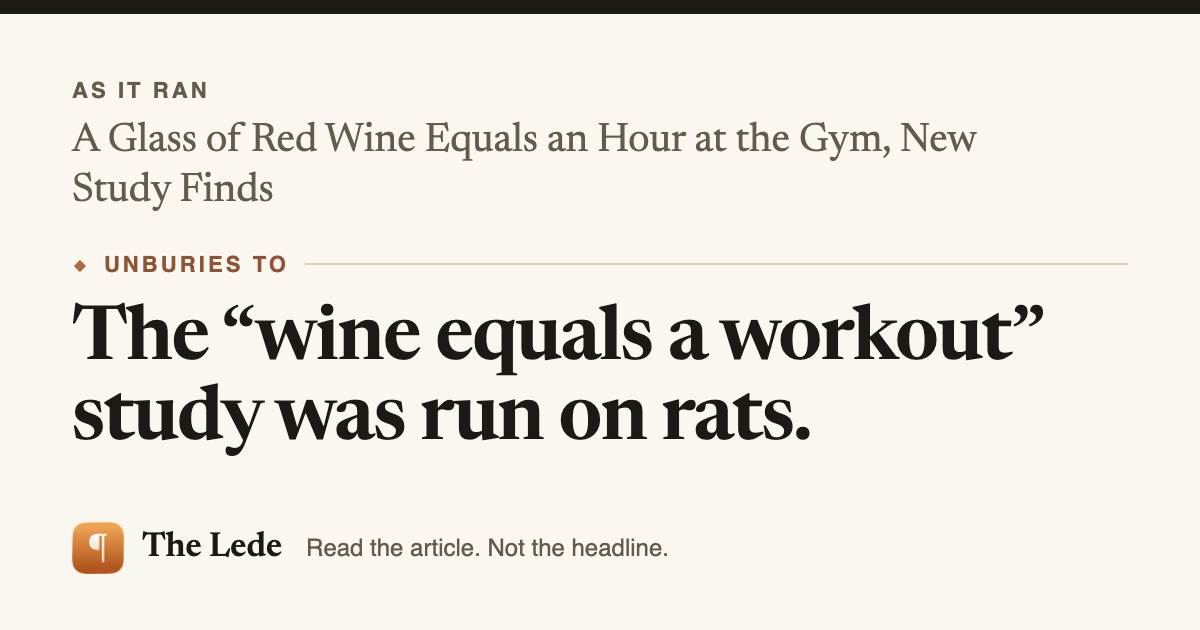
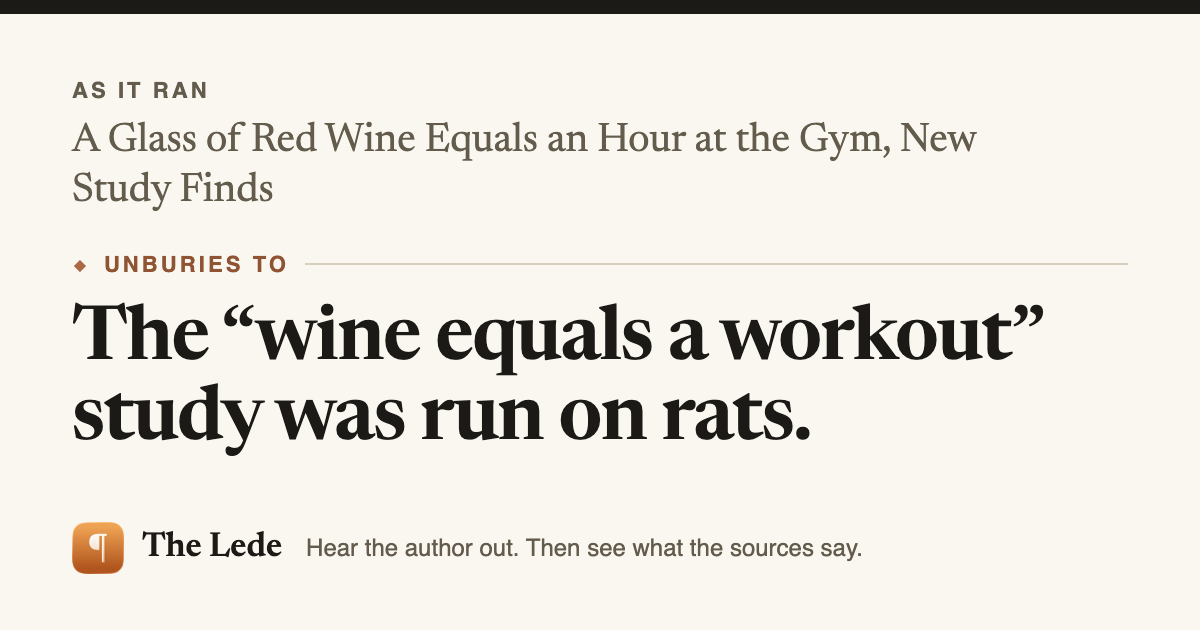
Dig Deeper leads the site; privacy page ready for Australia and Singapore (#23)
Homepage, title, meta and link-preview card now say "Hear the author out.
Then see what the sources say." The Dig Deeper section carries the wine
sample in place of the Iceland blurb. Press page "What The Lede is" and
"The receipt", the support answers for Dig Deeper and plans, and llms.txt
follow. A new support entry explains the false "couldn't reach the desk"
message on 1.0.4. Annual-plan savings claims removed from the structured
data, the FAQ and llms.txt. The "each claim is checked" sentence is left
off the site on purpose (Charles, 2026-10-23), pending a media lawyer.

Privacy page: where data is handled (United States), Australian access,
correction and complaint rights, Singapore's legitimate-interests basis
and Data Protection Officer, and how to report a mistake in a brief or
Dig Deeper. New Zealand waits on a company address.

Claude-Session: https://claude.ai/code/session_01EizGt9HTzCxtqCzPWHBHCM

Changed region(s): [[0.2467, 0.8444, 0.7092, 0.9048]]

diff --git a/support.html b/support.html
@@ -116,7 +116,7 @@
       "name": "What's Dig Deeper?",
       "acceptedAnswer": {
         "@type": "Answer",
-        "text": "A deeper pass you can ask for on anything you save. The desk goes out and researches it, pulls in additional reporting and other angles, and writes a richer read: what others found, a few different takes, and an honest bottom line. It works in the background and lets you know when it's ready. Dig Deeper comes with Membership, and two a month are free so you can see what it does."
+        "text": "Ask for one on anything you save, and the desk goes back out. It reads the reporting and research around the piece, sets out what others found and where it lands, and lists every source it wrote from, each a link to the original. Under the sources it says plainly that it can get one wrong and asks you to check the ones that matter to you. There's a row to report a problem. It works in the background and lets you know when it's ready. Dig Deeper comes with Membership, and 2 a month are free so you can see what it does."
       },
       "url": "https://theledeapp.com/support#what-is-dig-deeper"
     },
@@ -332,7 +332,7 @@
       "name": "What are the paid plans?",
       "acceptedAnswer": {
         "@type": "Answer",
-        "text": "One: Membership, $9.99 a month with a 7-day free trial. The desk reads it all, and 150 Dig Deepers a month. The yearly plan is $99.99, which works out at $8.33 a month: the same 150 Dig Deepers a month, and two months free. If demand spikes, new briefs may queue briefly; this rarely affects everyday reading."
+        "text": "One: Membership, $9.99 a month with a 7-day free trial. The desk reads it all, and you get 150 Dig Deepers a month. The yearly plan is $99.99, with the same 150 Dig Deepers a month. If demand spikes, new briefs can take a little longer; this rarely affects everyday reading."
       },
       "url": "https://theledeapp.com/support#paid-plans"
     },
@@ -509,6 +509,15 @@
     },
     {
       "@type": "Question",
+      "name": "My Dig Deeper said it couldn't reach the desk. What happened?",
+      "acceptedAnswer": {
+        "@type": "Answer",
+        "text": "In this version, that message can be wrong. Sometimes the desk read the sources, but too little of what it wrote held up against them, so it brought nothing back. Try again in about ten minutes. The next update will say this plainly."
+      },
+      "url": "https://theledeapp.com/support#dig-deeper-couldnt-reach"
+    },
+    {
+      "@type": "Question",
       "name": "How do I reach a human?",
       "acceptedAnswer": {
         "@type": "Answer",
@@ -553,7 +562,7 @@
         <li><a href="#sources"><span class="faq-index__no">6</span><span class="faq-index__title">Sources &amp; standards</span><span class="faq-index__leader"></span><span class="faq-index__count">3&nbsp;questions</span></a></li>
         <li><a href="#devices"><span class="faq-index__no">7</span><span class="faq-index__title">Devices &amp; sync</span><span class="faq-index__leader"></span><span class="faq-index__count">4&nbsp;questions</span></a></li>
         <li><a href="#accessibility"><span class="faq-index__no">8</span><span class="faq-index__title">Accessibility</span><span class="faq-index__leader"></span><span class="faq-index__count">1&nbsp;question</span></a></li>
-        <li><a href="#trouble"><span class="faq-index__no">9</span><span class="faq-index__title">When something goes wrong</span><span class="faq-index__leader"></span><span class="faq-index__count">2&nbsp;questions</span></a></li>
+        <li><a href="#trouble"><span class="faq-index__no">9</span><span class="faq-index__title">When something goes wrong</span><span class="faq-index__leader"></span><span class="faq-index__count">3&nbsp;questions</span></a></li>
       </ol>
     </nav>
 
@@ -570,7 +579,7 @@
       <p>Because the headline you clicked and the story underneath it aren't always the same thing. The Lede reads the whole piece and renames it for what it's actually about, so your queue reads like what you saved, not like what got you to click. It never touches the original: every renamed story carries a <strong>"RAN AS"</strong> line showing the real headline, exactly as it ran. Nothing is swapped behind your back; you can always see both.</p>
 
       <h3 id="what-is-dig-deeper">What's Dig Deeper?<a class="faq-link" href="#what-is-dig-deeper" aria-label="Copy link to this question: What's Dig Deeper?"><svg viewBox="0 0 16 16" width="15" height="15" aria-hidden="true" focusable="false"><path d="M6.4 9.6 9.6 6.4M7 4.2 8.1 3a2.7 2.7 0 0 1 3.8 3.8l-1.1 1.1M9 11.8 7.9 13A2.7 2.7 0 0 1 4.1 9.2l1.1-1.1" fill="none" stroke="currentColor" stroke-width="1.5" stroke-linecap="round"/></svg><span class="faq-link__flag" aria-hidden="true">Copied</span></a></h3>
-      <p>A deeper pass you can ask for on anything you save. The desk goes out and researches it, pulls in additional reporting and other angles, and writes a richer read: what others found, a few different takes, and an honest bottom line. It works in the background and lets you know when it's ready. Dig Deeper comes with Membership, and two a month are free so you can see what it does.</p>
+      <p>Ask for one on anything you save, and the desk goes back out. It reads the reporting and research around the piece, sets out what others found and where it lands, and lists every source it wrote from, each a link to the original. Under the sources it says plainly that it can get one wrong and asks you to check the ones that matter to you. There&rsquo;s a row to report a problem. It works in the background and lets you know when it&rsquo;s ready. Dig Deeper comes with Membership, and 2 a month are free so you can see what it does.</p>
 
       <a class="faq-top" href="#contents">↑ Contents</a>
     </section>
@@ -669,7 +678,7 @@
       <p>Every save is kept: nothing is ever lost or turned away. Past 10, a save stays <strong>buried</strong>: filed in your queue, original readable, but its brief withheld. Upgrade any time and the desk goes back and unburies everything you've saved.</p>
 
       <h3 id="paid-plans">What are the paid plans?<a class="faq-link" href="#paid-plans" aria-label="Copy link to this question: What are the paid plans?"><svg viewBox="0 0 16 16" width="15" height="15" aria-hidden="true" focusable="false"><path d="M6.4 9.6 9.6 6.4M7 4.2 8.1 3a2.7 2.7 0 0 1 3.8 3.8l-1.1 1.1M9 11.8 7.9 13A2.7 2.7 0 0 1 4.1 9.2l1.1-1.1" fill="none" stroke="currentColor" stroke-width="1.5" stroke-linecap="round"/></svg><span class="faq-link__flag" aria-hidden="true">Copied</span></a></h3>
-      <p>One: <strong>Membership</strong>, $9.99 a month with a 7-day free trial. The desk reads it all, and 150 Dig Deepers a month. The yearly plan is $99.99, which works out at <strong>$8.33 a month</strong>: the same 150 Dig Deepers a month, and two months free. If demand spikes, new briefs may queue briefly; this rarely affects everyday reading.</p>
+      <p>One: <strong>Membership</strong>, $9.99 a month with a 7-day free trial. The desk reads it all, and you get 150 Dig Deepers a month. The yearly plan is $99.99, with the same 150 Dig Deepers a month. If demand spikes, new briefs can take a little longer; this rarely affects everyday reading.</p>
 
       <h3 id="free-trial">How does the free trial work?<a class="faq-link" href="#free-trial" aria-label="Copy link to this question: How does the free trial work?"><svg viewBox="0 0 16 16" width="15" height="15" aria-hidden="true" focusable="false"><path d="M6.4 9.6 9.6 6.4M7 4.2 8.1 3a2.7 2.7 0 0 1 3.8 3.8l-1.1 1.1M9 11.8 7.9 13A2.7 2.7 0 0 1 4.1 9.2l1.1-1.1" fill="none" stroke="currentColor" stroke-width="1.5" stroke-linecap="round"/></svg><span class="faq-link__flag" aria-hidden="true">Copied</span></a></h3>
       <p>Membership starts with 7 days free, and the trial is the full product: the desk reads it all, and the full 150 Dig Deepers a month, from the first minute. When the trial ends it <strong>automatically becomes a paid subscription</strong> at $9.99 a month, or $99.99 a year if you chose the yearly plan, unless you cancel first, in which case you pay nothing. You can cancel any time in Settings → your name → Subscriptions.</p>
@@ -757,6 +766,9 @@
 
       <h3 id="save-failed">A save failed or a card says "Couldn't load." What now?<a class="faq-link" href="#save-failed" aria-label="Copy link to this question: A save failed or a card says &quot;Couldn't load.&quot; What now?"><svg viewBox="0 0 16 16" width="15" height="15" aria-hidden="true" focusable="false"><path d="M6.4 9.6 9.6 6.4M7 4.2 8.1 3a2.7 2.7 0 0 1 3.8 3.8l-1.1 1.1M9 11.8 7.9 13A2.7 2.7 0 0 1 4.1 9.2l1.1-1.1" fill="none" stroke="currentColor" stroke-width="1.5" stroke-linecap="round"/></svg><span class="faq-link__flag" aria-hidden="true">Copied</span></a></h3>
       <p>The save is kept either way: a failed read shows as a card that says what went wrong, and tapping the card shows what to try. "Couldn't load" means the desk couldn't open the page at all. The site may have been down or busy, or the link may not lead to an article. Share it again, from Safari if you can. If a save still won't work, tap the card, then <strong>Email the desk about this article</strong>. The email arrives with the link and what the card said already filled in; add what happened and send it. A person reads every one, and fixing sources is ongoing desk work.</p>
+
+      <h3 id="dig-deeper-couldnt-reach">My Dig Deeper said it couldn&rsquo;t reach the desk. What happened?<a class="faq-link" href="#dig-deeper-couldnt-reach" aria-label="Copy link to this question: My Dig Deeper said it couldn't reach the desk. What happened?"><svg viewBox="0 0 16 16" width="15" height="15" aria-hidden="true" focusable="false"><path d="M6.4 9.6 9.6 6.4M7 4.2 8.1 3a2.7 2.7 0 0 1 3.8 3.8l-1.1 1.1M9 11.8 7.9 13A2.7 2.7 0 0 1 4.1 9.2l1.1-1.1" fill="none" stroke="currentColor" stroke-width="1.5" stroke-linecap="round"/></svg><span class="faq-link__flag" aria-hidden="true">Copied</span></a></h3>
+      <p>In this version, that message can be wrong. Sometimes the desk read the sources, but too little of what it wrote held up against them, so it brought nothing back. Try again in about ten minutes. The next update will say this plainly.</p>
 
       <h3 id="contact-a-human">How do I reach a human?<a class="faq-link" href="#contact-a-human" aria-label="Copy link to this question: How do I reach a human?"><svg viewBox="0 0 16 16" width="15" height="15" aria-hidden="true" focusable="false"><path d="M6.4 9.6 9.6 6.4M7 4.2 8.1 3a2.7 2.7 0 0 1 3.8 3.8l-1.1 1.1M9 11.8 7.9 13A2.7 2.7 0 0 1 4.1 9.2l1.1-1.1" fill="none" stroke="currentColor" stroke-width="1.5" stroke-linecap="round"/></svg><span class="faq-link__flag" aria-hidden="true">Copied</span></a></h3>
       <p><strong><a href="mailto:support@theledeapp.com">support@theledeapp.com</a>.</strong> We're a small shop; we aim to reply within a couple of days. If it's about one article that won't save, write from the card instead: tap the card, then <strong>Email the desk about this article</strong>, and the link comes with it.</p>

diff --git a/index.html b/index.html
@@ -3,10 +3,10 @@
 <head>
   <meta charset="utf-8">
   <meta name="viewport" content="width=device-width, initial-scale=1">
-  <title>The Lede · Read the article. Not the headline.</title>
-  <meta name="description" content="A read-later app with a research desk. Save an article; The Lede reads it closely, unburies the real story, renames it for what it's actually about, files it by beat, and writes the strongest honest case the piece can make.">
+  <title>The Lede · Hear the author out. Then see what the sources say.</title>
+  <meta name="description" content="Save an article. The Lede makes its strongest honest case, then Dig Deeper reads the reporting around it and lists every source, so you can check it yourself.">
   <meta property="og:title" content="The Lede">
-  <meta property="og:description" content="Read the article. Not the headline.">
+  <meta property="og:description" content="Hear the author out. Then see what the sources say.">
   <meta property="og:type" content="website">
   <meta property="og:url" content="https://theledeapp.com/">
   <meta property="og:image" content="https://theledeapp.com/og-card.png">
@@ -14,7 +14,7 @@
   <meta property="og:image:height" content="630">
   <meta name="twitter:card" content="summary_large_image">
   <meta name="twitter:title" content="The Lede">
-  <meta name="twitter:description" content="Read the article. Not the headline.">
+  <meta name="twitter:description" content="Hear the author out. Then see what the sources say.">
   <meta name="twitter:image" content="https://theledeapp.com/og-card.png">
   <!-- Smart App Banner. Valid only once the listing is public, which is exactly
        why it was held for A-day rather than shipped with the pre-launch site. -->
@@ -50,11 +50,11 @@
         "operatingSystem": "iOS",
         "applicationCategory": "NewsApplication",
         "downloadUrl": "https://apps.apple.com/app/id6772315315",
-        "description": "A read-later app with a research desk. Save an article; The Lede reads it closely, unburies the real story, renames it for what it's actually about, files it by beat, and writes the strongest honest case the piece can make.",
+        "description": "A read-later app with a research desk. Save an article and The Lede renames it for what it actually argues and makes its strongest honest case. Then Dig Deeper reads the reporting around it and lists every source, so you can check its work.",
         "author": { "@id": "https://theledeapp.com/#org" },
         "offers": [
           { "@type": "Offer", "name": "Free", "price": "0", "priceCurrency": "USD", "description": "10 briefs and two Dig Deepers every month, no account required." },
-          { "@type": "Offer", "name": "Membership", "price": "9.99", "priceCurrency": "USD", "description": "The desk reads it all, and 150 Dig Deepers a month. $9.99 a month, or $99.99 a year, which works out at $8.33 a month with two months free. 7-day free trial. Billed through Apple." }
+          { "@type": "Offer", "name": "Membership", "price": "9.99", "priceCurrency": "USD", "description": "The desk reads it all, and you get 150 Dig Deepers a month. $9.99 a month or $99.99 a year, each with a 7-day free trial. Billed through Apple." }
         ]
       }
     ]
@@ -150,8 +150,8 @@
       </figure>
 
       <div class="hero__claim rise rise-2">
-        <h1>Read the article.<br>Not the headline.</h1>
-        <p class="hero__sub">Save anything worth reading. The Lede reads it closely, unburies the real story, files it by beat, and writes the strongest honest case the piece can make. Your queue becomes a magazine, not a pile of tabs.</p>
+        <h1>Hear the author out.<br>Then see what the sources say.</h1>
+        <p class="hero__sub">Save anything worth reading. The Lede renames it for what it actually argues and makes its strongest honest case. Then Dig Deeper reads the reporting around it and lists every source, so you can check its work.</p>
       </div>
     </section>
 
@@ -174,7 +174,7 @@
           <img src="app-store-badge.png" width="359" height="120" alt="Download on the App Store">
         </a>
       </p>
-      <p class="fineprint">Free to start: ten briefs a month, no account. Requires iOS 26. United States App Store.</p>
+      <p class="fineprint">Free to start: 10 briefs and 2 Dig Deepers a month, no account. Requires iOS 26. United States App Store.</p>
     </section>
 
     <p class="section-slug">The queue</p>
@@ -183,7 +183,7 @@
     <section class="showcase">
       <div class="showcase__head">
         <h2>Your saves file themselves into a magazine.</h2>
-        <p class="muted">Every story comes back renamed for what it&rsquo;s actually about and shelved on its beat. The queue reads like sections you pick by mood.</p>
+        <p class="muted">Every story comes back renamed for what it&rsquo;s actually about and shelved on its beat, with the original headline kept beside it. The queue reads like sections you pick by mood.</p>
       </div>
       <div class="split">
         <div class="frontpage">
@@ -220,14 +220,14 @@
       </div>
     </section>
 
-    <p class="section-slug">The brief</p>
+    <p class="section-slug">Dig Deeper</p>
 
     <!-- SHOWCASE 2 — the strongest honest case. Its own panel so the two
          showcases stop sharing one rhythm; exhibit leads, note is subordinate. -->
     <section class="showcase showcase--band">
       <div class="showcase__head">
-        <h2>The strongest honest case, before you commit to the read.</h2>
-        <p class="muted">Every save comes back as a short brief: the fairest version of the argument, enough to know what you&rsquo;re dealing with. When something matters, send The Lede out to dig deeper: more reporting, other angles, an honest bottom line. It works the same on a news story, a how-to, or the history thread you fell into at midnight.</p>
+        <h2>Every source, a tap from the original.</h2>
+        <p class="muted">Every save starts with a brief that makes the author&rsquo;s case. When it matters, tap Dig Deeper and the desk goes back out. It reads the reporting and research around the piece, sets out what others found and where it lands, and lists every source it wrote from, each one a link to the original. It can get one wrong, so check the ones that matter to you. Run it on a news story, a how-to, or the history thread you fell into at midnight.</p>
       </div>
       <div class="split split--rev">
         <div class="feature-copy">
@@ -236,11 +236,11 @@
           <p>The Lede reads every source as it is. It doesn't rank outlets and it reads every one. The one thing it changes: when a piece is opinion, it builds the brief from the original reporting underneath, and shows you the reporting it used. Same rule for every publication. More on <a href="/sourcing">how The Lede handles sources</a>.</p>
         </div>
         <div class="brief">
-          <p class="specimen__label">As it ran</p>
-          <p class="specimen__orig">Beer Was Banned in Iceland for Nearly 75 Years, Until 1989</p>
-          <p class="brief__lede">Iceland banned beer for patriotism, not morality.</p>
-          <p class="brief__steel-label"><span class="diamond" aria-hidden="true">◆</span> Dig deeper</p>
-          <p class="brief__body">Wine and spirits were legal again by the 1930s. Beer stayed banned because it stood for Denmark, the rival Iceland was breaking from. The first legal pint came in 1989.</p>
+          <p class="specimen__label">Deeper on</p>
+          <p class="specimen__orig">The &ldquo;wine equals a workout&rdquo; study was run on rats.</p>
+          <p class="brief__lede">No wine.</p>
+          <p class="brief__steel-label"><span class="diamond" aria-hidden="true">◆</span> Sample &middot; 8 sources</p>
+          <p class="brief__body">Rats got resveratrol, far more than a glass of wine holds. The study&rsquo;s lead author says it used no red wine.</p>
         </div>
       </div>
     </section>
@@ -253,7 +253,7 @@
          wallpaper, and Apple's badge is not a decorative element. -->
     <section class="signup">
       <h2>Start with the next thing you save.</h2>
-      <p class="signup__sub">Nothing to sign up for and no password to make. Your library lives in your own iCloud, and your first ten briefs each month are free.</p>
+      <p class="signup__sub">Nothing to sign up for and no password to make. Your library lives in your own iCloud. The free edition gives you 10 briefs and 2 Dig Deepers a month. To check everything you read, Membership gives you 150 Dig Deepers a month, with a 7-day free trial.</p>
       <p class="store-link"><a href="https://apps.apple.com/app/id6772315315">Available on the App Store</a></p>
     </section>
 

diff --git a/templates/index.template.html b/templates/index.template.html
@@ -3,10 +3,10 @@
 <head>
   <meta charset="utf-8">
   <meta name="viewport" content="width=device-width, initial-scale=1">
-  <title>The Lede · Read the article. Not the headline.</title>
-  <meta name="description" content="A read-later app with a research desk. Save an article; The Lede reads it closely, unburies the real story, renames it for what it's actually about, files it by beat, and writes the strongest honest case the piece can make.">
+  <title>The Lede · Hear the author out. Then see what the sources say.</title>
+  <meta name="description" content="Save an article. The Lede makes its strongest honest case, then Dig Deeper reads the reporting around it and lists every source, so you can check it yourself.">
   <meta property="og:title" content="The Lede">
-  <meta property="og:description" content="Read the article. Not the headline.">
+  <meta property="og:description" content="Hear the author out. Then see what the sources say.">
   <meta property="og:type" content="website">
   <meta property="og:url" content="https://theledeapp.com/">
   <meta property="og:image" content="https://theledeapp.com/og-card.png">
@@ -14,7 +14,7 @@
   <meta property="og:image:height" content="630">
   <meta name="twitter:card" content="summary_large_image">
   <meta name="twitter:title" content="The Lede">
-  <meta name="twitter:description" content="Read the article. Not the headline.">
+  <meta name="twitter:description" content="Hear the author out. Then see what the sources say.">
   <meta name="twitter:image" content="https://theledeapp.com/og-card.png">
   <!-- Smart App Banner. Valid only once the listing is public, which is exactly
        why it was held for A-day rather than shipped with the pre-launch site. -->
@@ -50,11 +50,11 @@
         "operatingSystem": "iOS",
         "applicationCategory": "NewsApplication",
         "downloadUrl": "https://apps.apple.com/app/id6772315315",
-        "description": "A read-later app with a research desk. Save an article; The Lede reads it closely, unburies the real story, renames it for what it's actually about, files it by beat, and writes the strongest honest case the piece can make.",
+        "description": "A read-later app with a research desk. Save an article and The Lede renames it for what it actually argues and makes its strongest honest case. Then Dig Deeper reads the reporting around it and lists every source, so you can check its work.",
         "author": { "@id": "https://theledeapp.com/#org" },
         "offers": [
           { "@type": "Offer", "name": "Free", "price": "0", "priceCurrency": "USD", "description": "10 briefs and two Dig Deepers every month, no account required." },
-          { "@type": "Offer", "name": "Membership", "price": "9.99", "priceCurrency": "USD", "description": "The desk reads it all, and 150 Dig Deepers a month. $9.99 a month, or $99.99 a year, which works out at $8.33 a month with two months free. 7-day free trial. Billed through Apple." }
+          { "@type": "Offer", "name": "Membership", "price": "9.99", "priceCurrency": "USD", "description": "The desk reads it all, and you get 150 Dig Deepers a month. $9.99 a month or $99.99 a year, each with a 7-day free trial. Billed through Apple." }
         ]
       }
     ]
@@ -220,7 +220,7 @@
       </div>
     </section>
 
-    <p class="section-slug">The brief</p>
+    <p class="section-slug">{{showcase2.slug}}</p>
 
     <!-- SHOWCASE 2 — the strongest honest case. Its own panel so the two
          showcases stop sharing one rhythm; exhibit leads, note is subordinate. -->
@@ -236,11 +236,11 @@
           <p>{{showcase2.featureBody}}</p>
         </div>
         <div class="brief">
-          <p class="specimen__label">As it ran</p>
-          <p class="specimen__orig">Beer Was Banned in Iceland for Nearly 75 Years, Until 1989</p>
-          <p class="brief__lede">Iceland banned beer for patriotism, not morality.</p>
-          <p class="brief__steel-label"><span class="diamond" aria-hidden="true">◆</span> Dig deeper</p>
-          <p class="brief__body">Wine and spirits were legal again by the 1930s. Beer stayed banned because it stood for Denmark, the rival Iceland was breaking from. The first legal pint came in 1989.</p>
+          <p class="specimen__label">{{showcase2.exhibitLabel}}</p>
+          <p class="specimen__orig">{{showcase2.exhibitRename}}</p>
+          <p class="brief__lede">{{showcase2.exhibitLine}}</p>
+          <p class="brief__steel-label"><span class="diamond" aria-hidden="true">◆</span> {{showcase2.exhibitKicker}}</p>
+          <p class="brief__body">{{showcase2.exhibitBody}}</p>
         </div>
       </div>
     </section>

diff --git a/privacy.html b/privacy.html
@@ -161,6 +161,9 @@
     <h2>Who processes your data</h2>
     <p>We rely on a small set of service providers, each handling only what's described above: <strong>Anthropic</strong> (AI briefs), <strong>Tavily</strong> and <strong>Exa</strong> (web search context), <strong>Apple</strong> (iCloud storage, push notifications, and subscriptions), <strong>Neon</strong> (our database), and <strong>Railway</strong> (server hosting). We do not sell or rent your information to anyone. Each of these providers acts only on our instructions. We do not share your data with any provider that does not protect it to the same standard this policy sets out. That includes <strong>Anthropic</strong>: our contract bars model training on your text, limits Anthropic to writing the brief we asked for, and sets the deletion terms described under <a href="#data-retention">Data retention</a> below.</p>
 
+    <h2 id="where-handled">Where your data is handled</h2>
+    <p>Charles Klein LLC is a company in the United States, and every provider listed above handles data in the United States. If you use The Lede from outside the United States, the information described on this page is sent to and handled in the United States, where privacy law may differ from the law where you live.</p>
+
     <h2 id="data-retention">Data retention</h2>
     <p>The temporary AI cache deletes itself on the schedule above. We never store the article's text ourselves. <strong>Anthropic deletes the text within 30 days, unless it flags a piece for safety review or the law requires a longer hold.</strong> Usage records are retained for <strong>up to 13 months</strong> and then automatically deleted. Your device registration is kept while the app is installed and registered. Subscription transaction identifiers that Apple reports to us are kept while your subscription is active and for a limited dispute-and-refund period afterward.</p>
 
@@ -175,6 +178,11 @@
       <li><strong>Request a copy</strong> — email us and we will provide the usage records we hold for your device.</li>
     </ul>
     <p>Because this data is keyed to a random device identifier, we may ask you to make the request from the device so we can locate the right records. Wherever you live, you may ask us about the data we hold and request its deletion. <strong>California residents:</strong> we do not sell or share your personal information, and you may exercise the access and deletion rights above by contacting us.</p>
+    <p><strong>Australia:</strong> you may ask to see or correct the information we hold about you, or make a complaint about how we handled it, by emailing us. We'll reply within 30 days. If you're not satisfied with our answer, you can complain to the Office of the Australian Information Commissioner at <a href="https://www.oaic.gov.au">oaic.gov.au</a>.</p>
+    <p><strong>Singapore:</strong> for the usage records described above, which we use to run, protect and improve the app, we rely on the legitimate interests exception in Singapore&rsquo;s Personal Data Protection Act. Our Data Protection Officer is Charles Klein, reachable at <a href="mailto:support@theledeapp.com">support@theledeapp.com</a>.</p>
+
+    <h2 id="report-a-mistake">Reporting a mistake</h2>
+    <p>If a brief or a Dig Deeper gets something wrong, tell us. Every Dig Deeper has a <em>Report a problem with this Dig Deeper</em> row, and you can email <a href="mailto:support@theledeapp.com">support@theledeapp.com</a> about any brief. We read every report, and we can remove a Dig Deeper from our temporary cache so it isn&rsquo;t shown again.</p>
 
     <h2>Children</h2>
     <p>The Lede is not directed to children under 13, and we do not knowingly collect information from them.</p>

diff --git a/press.html b/press.html
@@ -131,17 +131,18 @@
     <section class="press-sec" id="description">
       <h2>What The Lede is</h2>
       <p class="muted">This section is written to be quoted. Use it verbatim or cut it down.</p>
-      <p>The Lede is a read-later app for iPhone and iPad with a research desk behind it. Headlines are written to be clicked; The Lede reads the article underneath and tells you what it actually argues.</p>
-      <p>Save anything worth reading, from Safari or any app with a share button. It comes back renamed for the real story, filed on its beat, with a short brief that makes the strongest honest case the piece can make. Your queue reads like a magazine instead of a pile of open tabs. You're the editor. The Lede is your research desk.</p>
-      <p>When something matters, <strong>Dig Deeper</strong> sends the desk out on it. It finds more reporting, weighs what holds up, including the strongest case against the piece, and comes back with an honest bottom line. Then it shows you every source it looked at, so you can check its work.</p>
+      <p>The Lede is a read-later app for iPhone and iPad with a research desk behind it. It works in two steps: hear the author out, then see what the sources say.</p>
+      <p>Save anything worth reading, from Safari, any app with a share button, or by pasting a link. It comes back renamed for what it actually argues and filed on its beat, with the headline it ran under kept beside it and a short brief that makes the strongest honest case the piece can make. Your queue reads like a magazine instead of a pile of open tabs.</p>
+      <p>Then <strong>Dig Deeper</strong> sends the desk back out. It reads the reporting and research around the piece, sets out what others found and where it lands, and lists every source it wrote from, each link opening the original. It can get one wrong, so it asks you to check the ones that matter to you. You&rsquo;re the editor. The Lede is your research desk.</p>
       <p>It's built to be read: real typography and a dark mode made for reading at night.</p>
     </section>
 
     <section class="press-sec" id="the-receipt">
       <h2>The receipt</h2>
       <p>The rename is the feature most likely to raise an eyebrow, so here is what keeps it honest. The desk renames every article by what it actually argues, and the original headline is preserved right beside the rename, labeled <strong>RAN AS</strong>, exactly as it ran. The full article is kept on the reader's own device and stays readable, quotes stay verbatim, and every link opens the source. Nothing is swapped behind the reader's back; they never have to take the desk's word for anything.</p>
-      <p>We're not summarizing, we're clarifying: making the point of the article crystal clear so you can decide whether a piece is worth your time at all.</p>
+      <p>The point is to make what an article argues clear, so you can decide whether it&rsquo;s worth your time at all.</p>
       <p>The demonstration that leads the App Store listing: "A glass of red wine equals an hour at the gym" comes back as <strong>"It was run on rats."</strong></p>
+      <p>Dig Deeper on the same story, the sample that ships in the app, finds the study&rsquo;s lead author saying it used no red wine.</p>
     </section>
 
     <section class="press-sec" id="origin">

diff --git a/og-card-source.html b/og-card-source.html
@@ -40,7 +40,7 @@
   <div class="mast">
     <img src="icon.png" alt="">
     <span class="name">The Lede</span>
-    <span class="tag">Read the article. Not the headline.</span>
+    <span class="tag">Hear the author out. Then see what the sources say.</span>
   </div>
 </body>
 </html>
